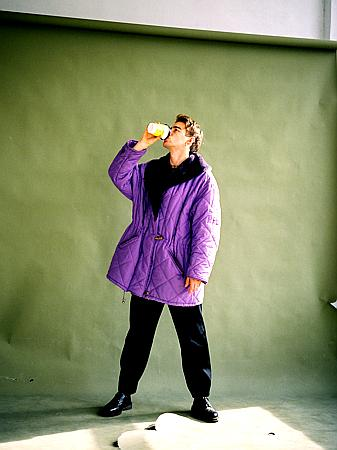
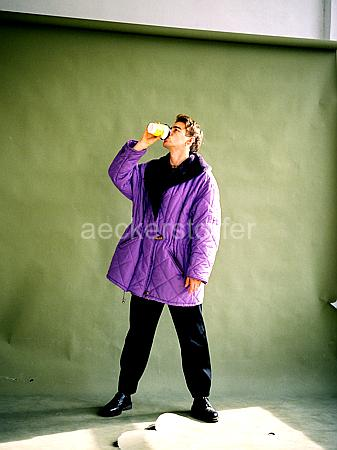
added watermark function
With this new function watermark with different sizes and opacities can easily be applied

Changed region(s): [[0.2374, 0.4667, 0.6231, 0.5289], [0.6528, 0.4667, 0.7122, 0.5289]]

diff --git a/imageList.py b/imageList.py
@@ -1,4 +1,4 @@
-from PIL import Image, ImageFilter, ImageEnhance
+from PIL import Image, ImageFilter, ImageEnhance, ImageDraw, ImageFont
 import os
 
 
@@ -145,3 +145,39 @@ class ImageList:
             self.__apply_lambda(
                 lambda image: ImageEnhance.Sharpness(image).enhance(sharpness))
         return self
+
+    def watermark(self, text, opacity=0.5, font_size=20, font_path=None):
+
+        font_path = "arial.ttf" if font_path is None else font_path
+        font = ImageFont.truetype(font_path, font_size)
+        text_color = (
+            255, 255, 255, int(255*opacity))
+
+        for i, named_image in enumerate(self.__images):
+            image = named_image.image
+            imageMode = image.mode
+            image = image.convert('RGBA')
+
+            txtLayer = Image.new('RGBA', image.size, (255, 255, 255, 0))
+            drawObject = ImageDraw.Draw(txtLayer)
+
+            x, y = self.__determine_watermark_position(
+                image, drawObject, text, font)
+
+            drawObject.text((x, y), text, fill=text_color, font=font)
+
+            image = Image.alpha_composite(image, txtLayer)
+            image = image.convert(imageMode)
+
+            named_image.image = image
+
+            self.__images[i] = named_image
+        return self
+
+    def __determine_watermark_position(self, image, drawObject, text, font):
+        width, height = image.size
+        text_width, text_height = drawObject.textsize(text, font)
+        x = width / 2 - text_width / 2
+        y = height / 2 - text_height / 2
+
+        return x, y

diff --git a/example.py b/example.py
@@ -5,9 +5,9 @@ images = ImageList('./example_images')
 
 (images
     .resize(height=450)
-    .preview(amount=1)
     .sharpen()
     .enhance(contrast=1.3, brightness=1.05)
+    .watermark('aeckerstorfer', font_size=30, opacity=0.35)
     .preview(amount=1)
     .save(save_dir_path='./exports')
  )
